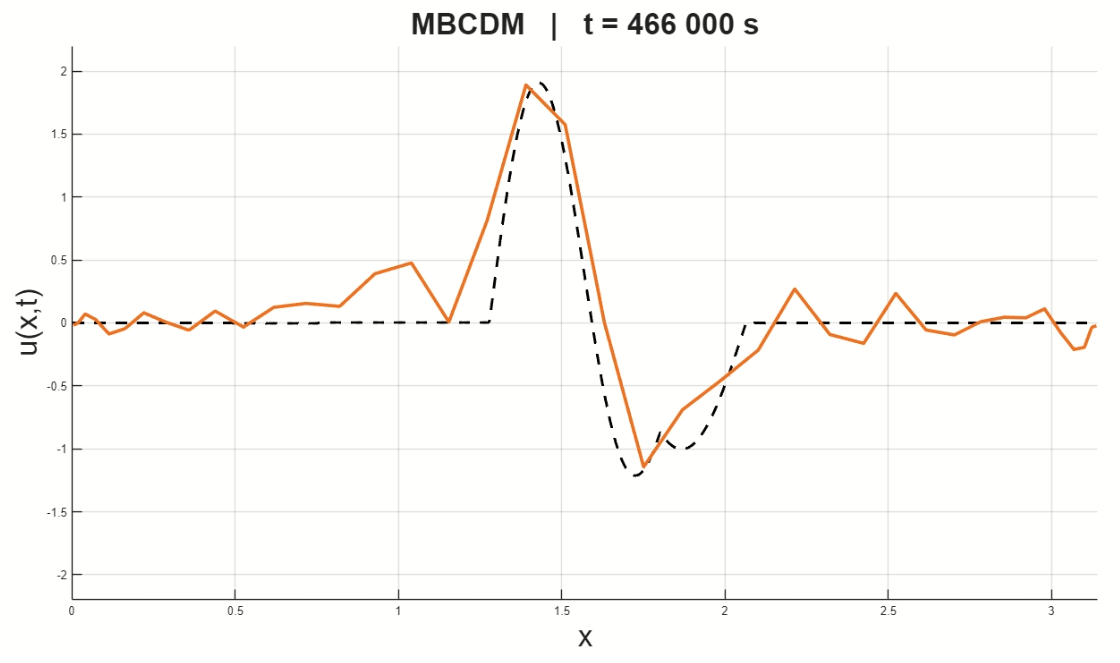
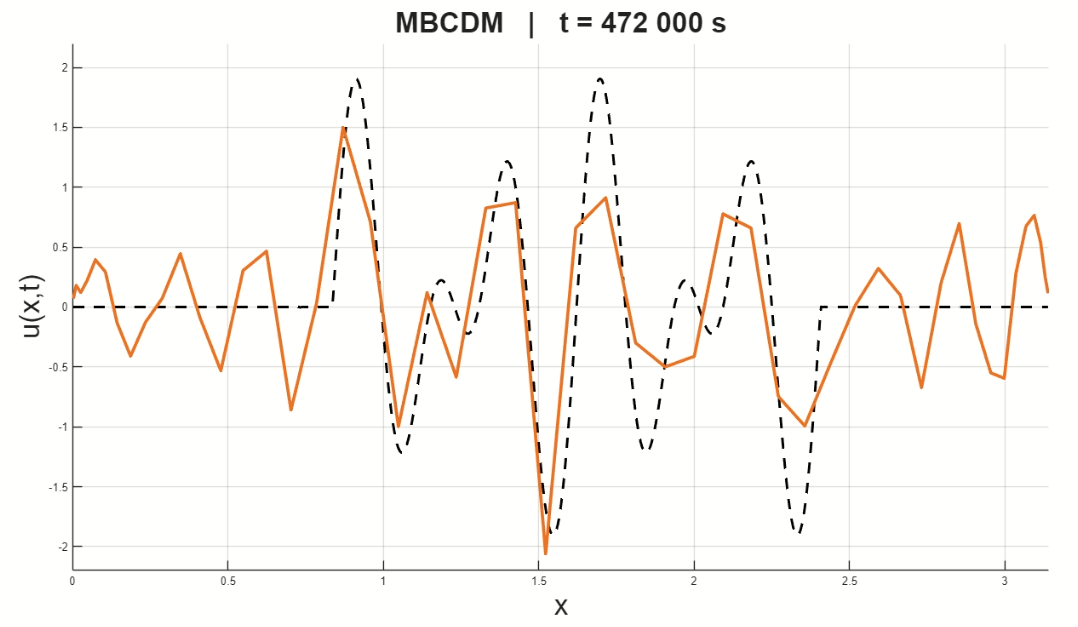
.

diff --git a/main.tex b/main.tex
@@ -1423,7 +1423,7 @@ First we will focus on wave on the interval $[0, \pi]$ in the initial form at ti
 \end{equation}
 And where $\omega = c \cdot k $,
 
-All is on interval $L = \pi$, $k = 10$
+All is on interval $L = \pi$, $k = 20$, $N = 40$
 
 
 \begin{figure}[H]
@@ -1437,7 +1437,7 @@ All is on interval $L = \pi$, $k = 10$
 \begin{figure}[H]
     \centering
     \includegraphics[width=0.8\linewidth]{figures/pic_one_dirichlet_FD_2.png}
-    \caption{FD (blue) method separates from exact solution (black) after $t \approx 4$ s.  $N = 40$ }
+    \caption{FD (blue) method separates from exact solution (black) after $t \approx 4$ s. }
     \label{}
 \end{figure}
 
@@ -1445,7 +1445,7 @@ All is on interval $L = \pi$, $k = 10$
 \begin{figure}[H]
     \centering
     \includegraphics[width=0.8\linewidth]{figures/pic_one_dirichlet_Numerov_2.png}
-    \caption{Numerov (red) method separates from exact solution (black) after $t \approx 29$ s.  $N = 40$ }
+    \caption{Numerov (red) method separates from exact solution (black) after $t \approx 29$ s.   }
     \label{}
 \end{figure}
 
@@ -1453,28 +1453,28 @@ All is on interval $L = \pi$, $k = 10$
 \begin{figure}[H]
     \centering
     \includegraphics[width=0.8\linewidth]{figures/pic_one_dirichlet_CDM_2.png}
-    \caption{Simulation with CDM (brown) and exact solution (black) that ran for $t \approx 18 \, 200$ s. $N = 40$}
+    \caption{Simulation with CDM (brown) and exact solution (black) that ran for $t \approx 18 \, 200$ s. }
     \label{}
 \end{figure}
 
 \begin{figure}[H]
     \centering
     \includegraphics[width=0.8\linewidth]{figures/pic_one_dirichlet_MBCDM_2.png}
-    \caption{Simulation with MBCDM (orange) and exact solution (black) that ran for $t \approx 18 \, 200$ s. $N = 40$}
+    \caption{Simulation with MBCDM (orange) and exact solution (black) that ran for $t \approx 18 \, 200$ s.}
     \label{}
 \end{figure}
 
 \begin{figure}[H]
     \centering
     \includegraphics[width=0.8\linewidth]{figures/pic_one_dirichlet_LGCC_2.png}
-    \caption{Simulation with LGCC (green) and exact solution (black) that ran for $t \approx 18 \, 200$ s. $N = 40$}
+    \caption{Simulation with LGCC (green) and exact solution (black) that ran for $t \approx 18 \, 200$ s. }
     \label{}
 \end{figure}
 
 \begin{figure}[H]
     \centering
     \includegraphics[width=0.8\linewidth]{figures/pic_one_dirichlet_DST_2.png}
-    \caption{Simulation with DST (magenta) and exact solution (black) that ran for $t \approx 18 \, 200$ s. $N = 40$}
+    \caption{Simulation with DST (magenta) and exact solution (black) that ran for $t \approx 18 \, 200$ s. }
     \label{}
 \end{figure}
 
@@ -1488,7 +1488,17 @@ We can see that DST is, again, the best.
 \begin{equation}
     u(x,t) = \sin{(k x - \omega_k t)} + \sin{(l x - \omega_l t)} \, ,
 \end{equation}
-where $\omega_k = c \cdot k $, $\omega_l = c \cdot l $, $k = 8$, $l = 12$, $N = 40$ and $L = \pi$.
+where $\omega_k = c \cdot k $, $\omega_l = c \cdot l $, $k = 16$, $l = 24$, $N = 50$ and $L = \pi$.
+
+\begin{equation}
+u(x,t) =
+\begin{cases}
+\sin(kx - \omega_k t ) + \sin(lx - \omega_l t)  & 0 \leq x \leq \dfrac{\pi}{2} \\[10pt]
+0                      & \dfrac{\pi}{2} < x \leq \pi
+\end{cases}
+\end{equation}
+
+
 
 \begin{figure}[H]
     \centering
@@ -1509,7 +1519,7 @@ where $\omega_k = c \cdot k $, $\omega_l = c \cdot l $, $k = 8$, $l = 12$, $N = 
 \begin{figure}[H]
     \centering
     \includegraphics[width=0.8\linewidth]{figures/pic_two_same_dirichlet_Numerov.png}
-    \caption{Numerov (red) method separates from exact solution (black) after $t \approx 83$ s. }
+    \caption{Numerov (red) method separates from exact solution (black) after $t \approx 70$ s. }
     \label{}
 \end{figure}
 
@@ -1517,28 +1527,28 @@ where $\omega_k = c \cdot k $, $\omega_l = c \cdot l $, $k = 8$, $l = 12$, $N = 
 \begin{figure}[H]
     \centering
     \includegraphics[width=0.8\linewidth]{figures/pic_two_same_dirichlet_CDM.png}
-    \caption{Simulation with CDM (brown) and exact solution (black) that ran for $t \approx 466 \, 000$ s.}
+    \caption{Simulation with CDM (brown) and exact solution (black) that ran for $t \approx 472 \, 000$ s.}
     \label{}
 \end{figure}
 
 \begin{figure}[H]
     \centering
     \includegraphics[width=0.8\linewidth]{figures/pic_two_same_dirichlet_MBCDM.png}
-    \caption{Simulation with MBCDM (orange) and exact solution (black) that ran for $t \approx 466 \, 000$ s.}
+    \caption{Simulation with MBCDM (orange) and exact solution (black) that ran for $t \approx 472 \, 000$ s.}
     \label{}
 \end{figure}
 
 \begin{figure}[H]
     \centering
     \includegraphics[width=0.8\linewidth]{figures/pic_two_same_dirichlet_LGCC.png}
-    \caption{Simulation with LGCC (green) and exact solution (black) that ran for $t \approx 466 \, 000$ s.}
+    \caption{Simulation with LGCC (green) and exact solution (black) that ran for $t \approx 472 \, 000$ s.}
     \label{}
 \end{figure}
 
 \begin{figure}[H]
     \centering
     \includegraphics[width=0.8\linewidth]{figures/pic_two_same_dirichlet_DST.png}
-    \caption{Simulation with DST (magenta) and exact solution (black) that ran for $t \approx 466 \, 000$ s.}
+    \caption{Simulation with DST (magenta) and exact solution (black) that ran for $t \approx 472 \, 000$ s.}
     \label{}
 \end{figure}
 
